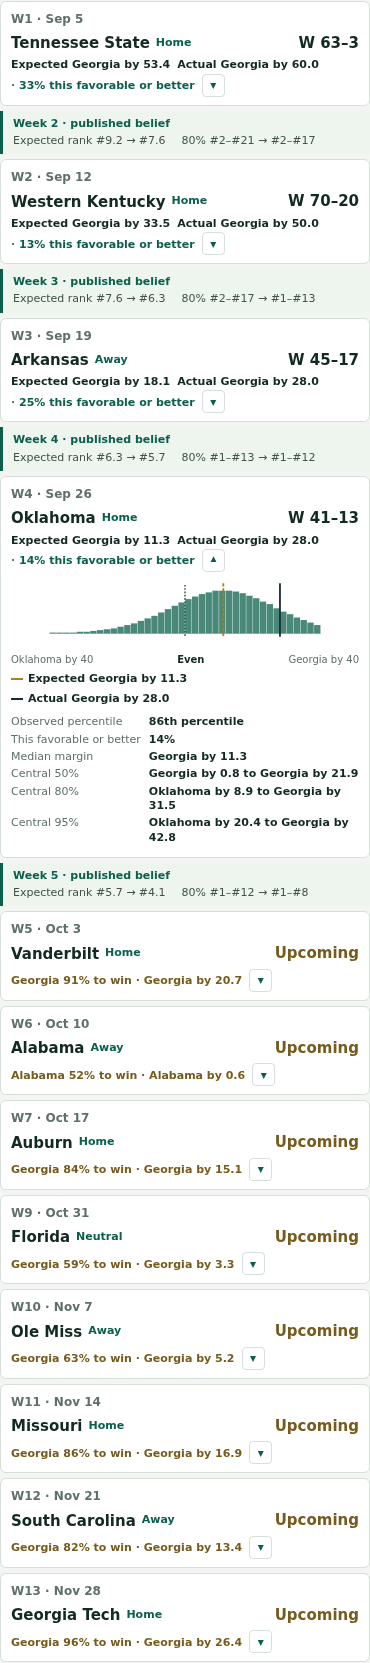
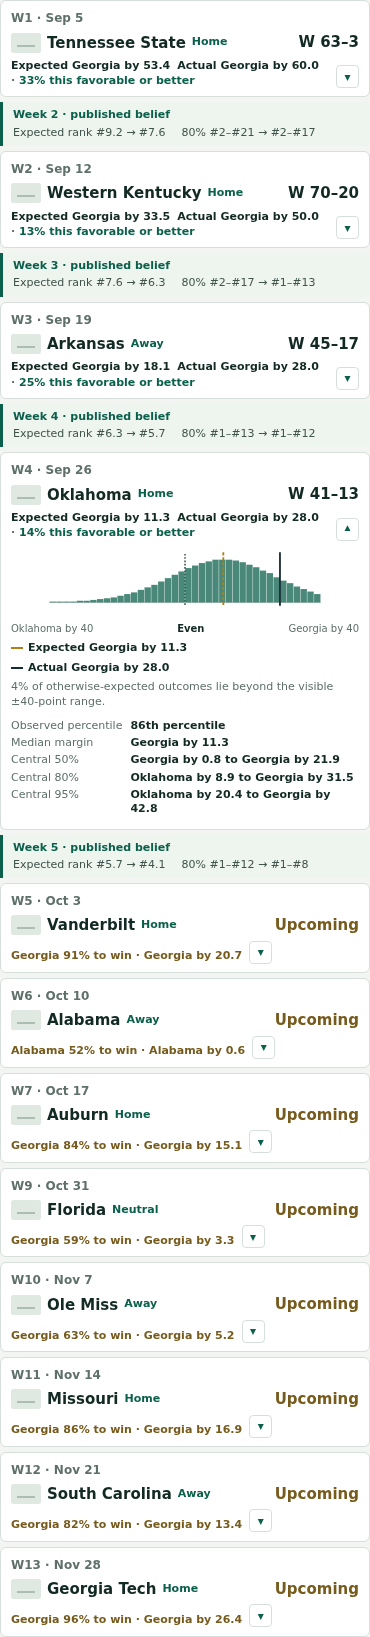
Address schedule disclosure accessibility and chart feedback

diff --git a/site/assets/team.js b/site/assets/team.js
@@ -148,12 +148,12 @@ function densitySvg(masses, {
   return svg;
 }
 
-function disclosure(label, content, className = "distribution-disclosure") {
+function disclosure(label, content, className = "distribution-disclosure", summaryText = null) {
   const details = node("details", className);
   const summary = node("summary", "distribution-toggle", "▾");
   const updateLabel = () => {
     const verb = details.open ? "Hide" : "Show";
-    summary.setAttribute("aria-label", `${verb} ${label}`);
+    summary.setAttribute("aria-label", summaryText ? `${summaryText}. ${verb} ${label}` : `${verb} ${label}`);
     summary.title = `${verb} ${label}`;
   };
   updateLabel();
@@ -218,13 +218,12 @@ function futureChart(prediction, team, axis, oriented) {
 }
 
 function retrospectiveChart(expectation, team, axis, oriented) {
-  const focalIsHome = expectation.home_team_id === team.team_id;
-  const display = expectation.display_distribution;
-  if (!axis || !Array.isArray(display?.masses)) return null;
-  const masses = focalIsHome ? display.masses : [...display.masses].reverse();
+  const display = orientedDisplayDistribution(expectation, team, axis);
+  if (!display) return null;
+  const offAxis = (display.lowerTail + display.upperTail) / displayScale(axis);
   const figure = node("figure", "game-distribution game-distribution-retrospective");
   const label = `${team.team_name} retrospective margin distribution. Expected ${oriented.expectedText}; actual ${oriented.actualText}.`;
-  const svg = densitySvg(masses, {
+  const svg = densitySvg(display.masses, {
     className: "retrospective-distribution-chart",
     label,
     description: "Bars show otherwise expected outcomes; the gold line marks the expected margin and the dark line marks the actual margin. The horizontal axis is from the team's perspective.",
@@ -254,6 +253,9 @@ function retrospectiveChart(expectation, team, axis, oriented) {
     node("span", "retrospective-legend-actual", `Actual ${oriented.actualText}`),
   );
   figure.append(legend);
+  if (offAxis > 0.001) {
+    figure.append(node("p", "distribution-tail-note", `${percentage(offAxis)} of otherwise-expected outcomes lie beyond the visible ±${Math.max(Math.abs(minimum), Math.abs(maximum))}-point range.`));
+  }
   if (Math.abs(oriented.actual) > maximum || Math.abs(oriented.expected) > maximum) {
     figure.append(node("p", "distribution-tail-note", "A marker at the edge is beyond the displayed margin range."));
   }
@@ -818,15 +820,18 @@ function predictionPanel(prediction, team, axis) {
   const favorite = oriented.focalWin >= oriented.opponentWin ? [oriented.focalName, oriented.focalWin] : [oriented.opponentName, oriented.opponentWin];
   const panel = node("div", "game-prediction");
   const expectedText = oriented.expected >= 0 ? marginSide(oriented.focalName, oriented.expected) : marginSide(oriented.opponentName, -oriented.expected);
-  const title = node("strong", "game-prediction-title", `${favorite[0]} ${percentage(favorite[1])} to win · ${expectedText}`);
+  const titleText = `${favorite[0]} ${percentage(favorite[1])} to win · ${expectedText}`;
+  const title = node("strong", "game-prediction-title", titleText);
   const detail = node("div", "game-prediction-disclosure-content");
   const chart = futureChart(prediction, team, axis, oriented);
   if (chart) detail.append(chart);
   const list = node("dl", "game-rating-details");
   [["Focal win probability", percentage(oriented.focalWin)], ["Opponent win probability", percentage(oriented.opponentWin)], ["Expected margin", expectedText], ["Median margin", oriented.median >= 0 ? marginSide(oriented.focalName, oriented.median) : marginSide(oriented.opponentName, -oriented.median)], ["Central 50% range", predictionRange(oriented, oriented.interval50)], ["Central 80% range", predictionRange(oriented, oriented.interval80)], ["Central 95% range", predictionRange(oriented, oriented.interval95)], ["Prediction source", prediction.prediction_source === "predictive_history" ? "Predictive History" : "Predictive Context"]].forEach(([label, value]) => list.append(node("dt", "", label), node("dd", "", value)));
   detail.append(list);
-  const distribution = disclosure("predictive margin distribution", detail, "distribution-disclosure game-distribution-disclosure");
-  distribution.querySelector("summary").replaceChildren(title, node("span", "distribution-chevron", "▾"));
+  const distribution = disclosure("predictive margin distribution", detail, "distribution-disclosure game-distribution-disclosure", titleText);
+  const copy = node("span", "game-summary-copy");
+  copy.append(title);
+  distribution.querySelector("summary").replaceChildren(copy, node("span", "distribution-chevron", "▾"));
   panel.append(distribution);
   return panel;
 }
@@ -852,26 +857,29 @@ function retrospectivePanel(expectation, team, axis, opponentName) {
   const percentile = focalIsHome
     ? expectation.observed_margin_percentile : expectation.upper_tail_probability;
   const panel = node("div", "game-retrospective");
+  const expectedText = `Expected ${oriented.expectedText}`;
+  const actualText = `Actual ${oriented.actualText}`;
+  const tailText = `${tailPercentage(tail)} ${favorable ? "this favorable or better" : "this unfavorable or worse"}`;
   const detail = node("div", "game-retrospective-disclosure-content");
   const chart = retrospectiveChart(expectation, team, axis, oriented);
   if (chart) detail.append(chart);
   const facts = node("dl", "game-rating-details");
   [
     ["Observed percentile", percentileLabel(percentile * 100)],
-    [favorable ? "This favorable or better" : "This unfavorable or worse", tailPercentage(tail)],
     ["Median margin", marginSide(orient(expectation.median_home_margin) >= 0 ? team.team_name : opponentName, orient(expectation.median_home_margin))],
     ["Central 50%", predictionRange(oriented, orientInterval(expectation.margin_interval_50))],
     ["Central 80%", predictionRange(oriented, orientInterval(expectation.margin_interval_80))],
     ["Central 95%", predictionRange(oriented, orientInterval(expectation.margin_interval_95))],
   ].forEach(([label, value]) => facts.append(node("dt", "", label), node("dd", "", value)));
   detail.append(facts);
-  const distribution = disclosure(`${team.team_name} completed-game retrospective distribution`, detail, "distribution-disclosure game-distribution-disclosure");
-  distribution.querySelector("summary").replaceChildren(
-    node("span", "game-retrospective-expected", `Expected ${oriented.expectedText}`),
-    node("span", "game-retrospective-actual", `Actual ${oriented.actualText}`),
-    node("span", "game-retrospective-tail", `${tailPercentage(tail)} ${favorable ? "this favorable or better" : "this unfavorable or worse"}`),
-    node("span", "distribution-chevron", "▾"),
+  const distribution = disclosure(`${team.team_name} completed-game retrospective distribution`, detail, "distribution-disclosure game-distribution-disclosure", `${expectedText}. ${actualText}. ${tailText}`);
+  const copy = node("span", "game-summary-copy");
+  copy.append(
+    node("span", "game-retrospective-expected", expectedText),
+    node("span", "game-retrospective-actual", actualText),
+    node("span", "game-retrospective-tail", tailText),
   );
+  distribution.querySelector("summary").replaceChildren(copy, node("span", "distribution-chevron", "▾"));
   panel.append(distribution);
   return panel;
 }

diff --git a/tests/browser/team-schedule.spec.js b/tests/browser/team-schedule.spec.js
@@ -6,6 +6,7 @@ const { installStaticSiteRoute } = require("./static-site");
 const current = "2026-weekly-2026-09-27T12-27-35.698895Z-context-v1.3";
 const currentPerformance = `${current}-performance`;
 const historical = "2026-weekly-2026-09-26T12-09-11.589245Z-context-v1.3";
+const logoResponse = '<svg xmlns="http://www.w3.org/2000/svg" width="60" height="40" viewBox="0 0 60 40"><rect width="60" height="40" rx="5" fill="#e0e8e2"/><path d="M12 26h36" stroke="#9bafa3" stroke-width="3"/></svg>';
 
 function teamUrl(team, snapshot = current) {
   return `/team.html?team=${team}&season=2026&family=predictive&prior=context&snapshot=${snapshot}`;
@@ -19,7 +20,7 @@ async function loadTeam(page, team, snapshot = current) {
 test.beforeEach(async ({ page }) => {
   await installStaticSiteRoute(page);
   await page.route("**/*", (route) => route.request().resourceType() === "image"
-    ? route.fulfill({ status: 204 }) : route.fallback());
+    ? route.fulfill({ status: 200, contentType: "image/svg+xml", body: logoResponse }) : route.fallback());
 });
 
 test("keeps current Georgia results, checkpoint movement, and future predictions compact", async ({ page }, testInfo) => {
@@ -62,6 +63,10 @@ test("orients an away upset from the focal team and keeps an ordinary result qui
   await expect(upset).toContainText("Expected Rutgers by 24.1");
   await expect(upset).toContainText("Actual Massachusetts by 16.0");
   await expect(upset).toContainText("1.1% this favorable or better");
+  await upset.locator(".game-distribution-disclosure summary").click();
+  await expect(upset.locator(".game-distribution-retrospective .distribution-tail-note"))
+    .toContainText("16% of otherwise-expected outcomes lie beyond the visible ±40-point range");
+  await expect(upset.locator(".game-distribution-retrospective .distribution-tail")).toHaveCount(0);
   const ordinary = page.locator('.game-card[data-game-id="401866424"]');
   await expect(ordinary).toContainText("37% this unfavorable or worse");
   await expect(ordinary).not.toContainText(/shocking|dominant|fluke|grade/i);
@@ -95,11 +100,12 @@ test("opens distinct retrospective and predictive distributions from the keyboar
   const completed = page.locator('.game-card[data-game-id="401856700"]');
   const retrospective = completed.locator(".game-distribution-disclosure");
   const retroToggle = retrospective.locator("summary");
-  await expect(retroToggle).toHaveAttribute("aria-label", /Show Georgia completed-game retrospective distribution/);
+  await expect(retroToggle).toHaveAccessibleName(/Expected Georgia by 11\.3.*Actual Georgia by 28\.0.*14% this favorable or better.*Show Georgia completed-game retrospective distribution/);
   await expect(retrospective.locator(".retrospective-distribution-chart")).toBeHidden();
   await retroToggle.focus();
   await page.keyboard.press("Enter");
   await expect(retrospective).toHaveAttribute("open", "");
+  await expect(retroToggle).toHaveAccessibleName(/Expected Georgia by 11\.3.*Actual Georgia by 28\.0.*14% this favorable or better.*Hide Georgia completed-game retrospective distribution/);
   const expectedMargin = Number(await retrospective.locator(".retrospective-marker-expected").getAttribute("data-margin"));
   expect(expectedMargin).toBeCloseTo(11.298375740164296, 10);
   await expect(retrospective.locator(".retrospective-marker-actual")).toHaveAttribute("data-margin", "28");
@@ -107,17 +113,51 @@ test("opens distinct retrospective and predictive distributions from the keyboar
   await expect(retrospective.locator(".retrospective-chart-legend")).toContainText("Actual Georgia by 28.0");
   await expect(retrospective.locator("dt")).toHaveText([
     "Observed percentile",
-    "This favorable or better",
     "Median margin",
     "Central 50%",
     "Central 80%",
     "Central 95%",
   ]);
   await expect(retrospective.locator(".distribution-tail")).toHaveCount(0);
+  await expect(retrospective.locator(".distribution-tail-note"))
+    .toContainText("4% of otherwise-expected outcomes lie beyond the visible ±40-point range");
   const future = page.locator('.game-card[data-game-id="401856705"]');
-  await expect(future.locator(".game-distribution-disclosure summary")).toHaveAttribute("aria-label", /Show predictive margin distribution/);
+  await expect(future.locator(".game-distribution-disclosure summary"))
+    .toHaveAccessibleName(/Georgia 91% to win.*Georgia by 20\.7.*Show predictive margin distribution/);
   await future.locator(".game-distribution-disclosure summary").click();
   await expect(future.locator(".future-distribution-chart")).toBeVisible();
   const overflow = await page.evaluate(() => document.documentElement.scrollWidth - window.innerWidth);
   expect(overflow).toBeLessThanOrEqual(1);
+});
+
+test("keeps long mobile future predictions and their disclosure controls together with logos present", async ({ page }, testInfo) => {
+  test.skip(testInfo.project.name !== "mobile", "This is a narrow-layout regression.");
+  await page.setViewportSize({ width: 320, height: 844 });
+  await loadTeam(page, "113");
+  let wrapped = false;
+  for (const gameId of ["401866433", "401866455"]) {
+    const game = page.locator(`.game-card[data-game-id="${gameId}"]`);
+    await game.scrollIntoViewIfNeeded();
+    await expect(game.locator(".team-logo")).toBeVisible();
+    await expect.poll(() => game.locator(".team-logo").evaluate((image) => image.naturalWidth)).toBe(60);
+    const layout = await game.locator(".game-distribution-disclosure summary").evaluate((summary) => {
+      const copy = summary.querySelector(".game-summary-copy");
+      const chevron = summary.querySelector(".distribution-chevron");
+      const copyBox = copy.getBoundingClientRect();
+      const chevronBox = chevron.getBoundingClientRect();
+      return {
+        copyHeight: copyBox.height,
+        lineHeight: Number.parseFloat(getComputedStyle(copy).lineHeight),
+        copyRight: copyBox.right,
+        copyBottom: copyBox.bottom,
+        chevronLeft: chevronBox.left,
+        chevronTop: chevronBox.top,
+      };
+    });
+    wrapped ||= layout.copyHeight > layout.lineHeight + 1;
+    expect(layout.chevronLeft).toBeGreaterThanOrEqual(layout.copyRight - 1);
+    expect(layout.chevronTop).toBeLessThan(layout.copyBottom);
+  }
+  expect(wrapped).toBeTruthy();
+  expect(await page.evaluate(() => document.documentElement.scrollWidth - window.innerWidth)).toBeLessThanOrEqual(1);
 });

diff --git a/site/assets/style.css b/site/assets/style.css
@@ -3013,18 +3013,26 @@ details[open] > .distribution-toggle {
 }
 
 .game-distribution-disclosure .distribution-toggle {
-  display: flex;
+  display: inline-flex;
   justify-content: flex-start;
-  align-items: baseline;
-  flex-wrap: wrap;
-  gap: 2px 10px;
+  align-items: flex-end;
+  flex-wrap: nowrap;
+  gap: 8px;
   min-width: 0;
-  width: 100%;
+  width: max-content;
+  max-width: 100%;
   height: auto;
   padding: 0;
   border: 0;
   line-height: 1.3;
   list-style: none;
+}
+
+.game-summary-copy {
+  display: flex;
+  flex-wrap: wrap;
+  gap: 2px 10px;
+  min-width: 0;
 }
 
 .game-distribution-disclosure[open] > .distribution-toggle {
@@ -3047,6 +3055,7 @@ details[open] > .distribution-toggle {
   color: var(--green);
   font-size: 12px;
   line-height: 1;
+  flex: 0 0 auto;
 }
 
 .game-distribution-disclosure[open] .distribution-chevron {
@@ -3329,6 +3338,10 @@ details[open] > .distribution-toggle {
   }
 
   .game-distribution-disclosure .distribution-toggle {
+    gap: 7px;
+  }
+
+  .game-summary-copy {
     gap: 1px 7px;
   }
 

diff --git a/docs/visual-evidence/issue-136/README.md b/docs/visual-evidence/issue-136/README.md
@@ -2,7 +2,8 @@
 
 These PNGs were rendered from the retained 2026 production artifacts with
 `node scripts/capture-issue-136.cjs` against the repository's Playwright
-Chromium server. The script routes this worktree's `site/` files directly.
+Chromium server. The script routes this worktree's `site/` files directly and
+uses local neutral 60×40 image placeholders to preserve opponent-logo geometry.
 
 | Capture | What to inspect |
 | --- | --- |
